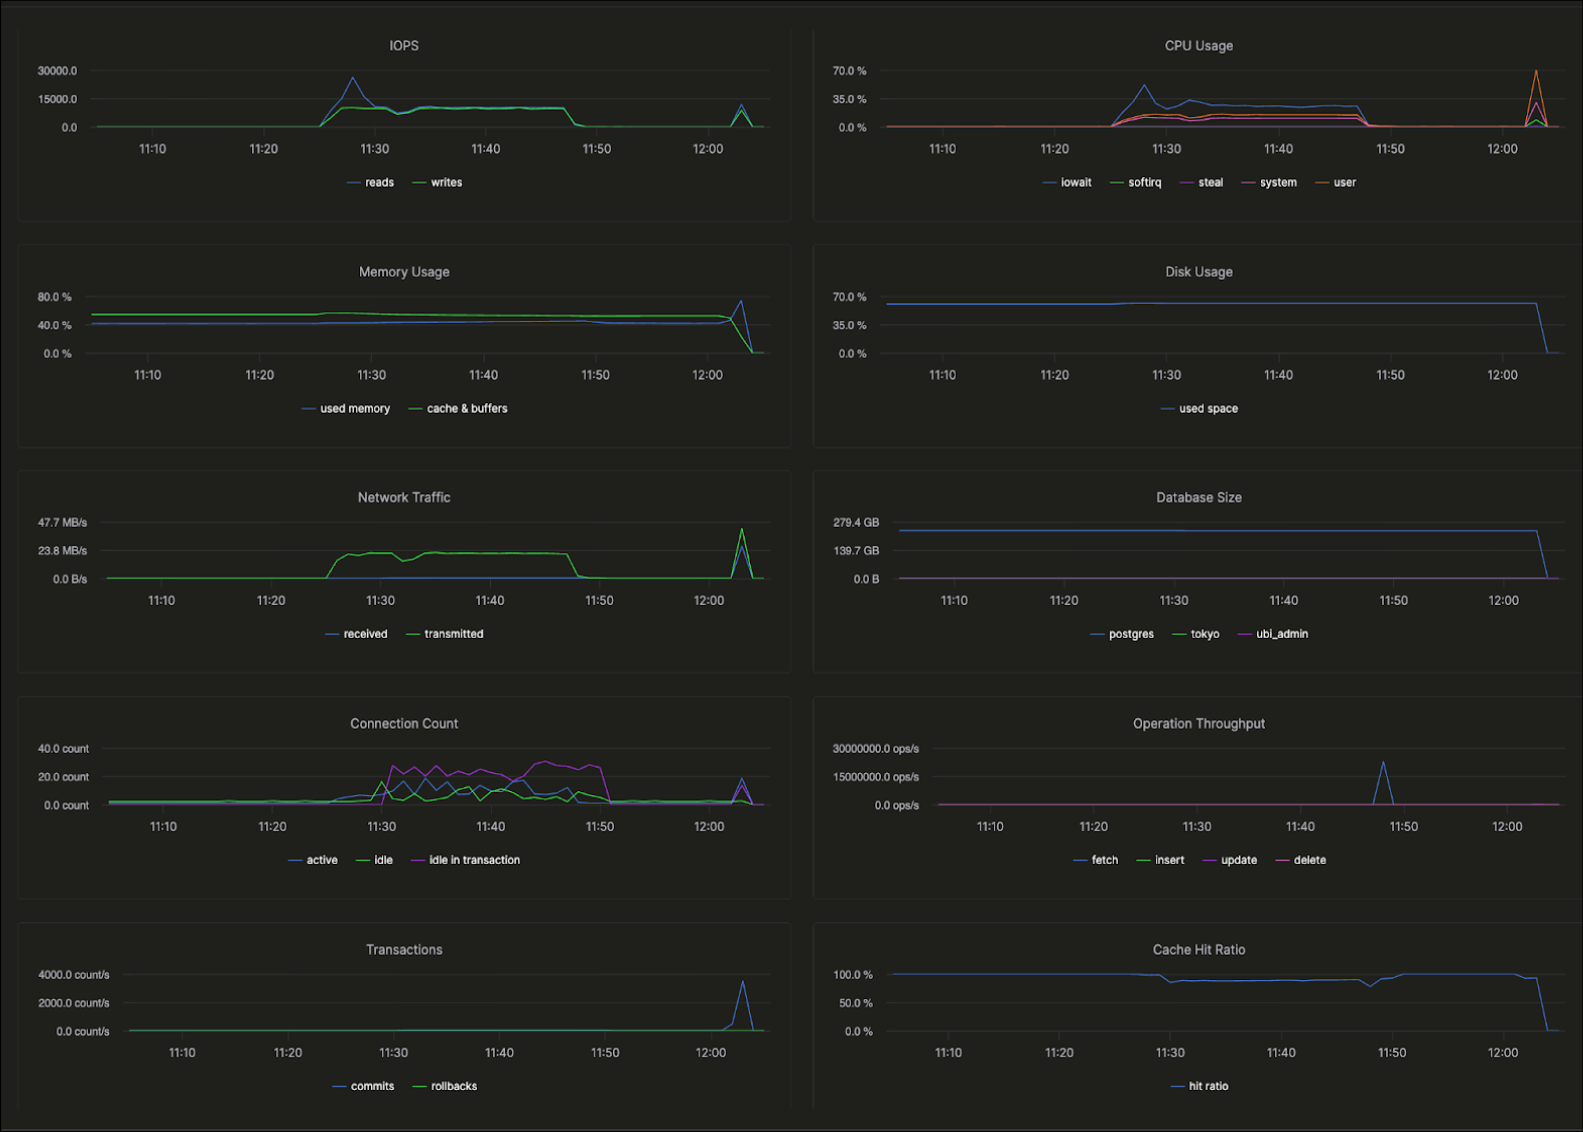
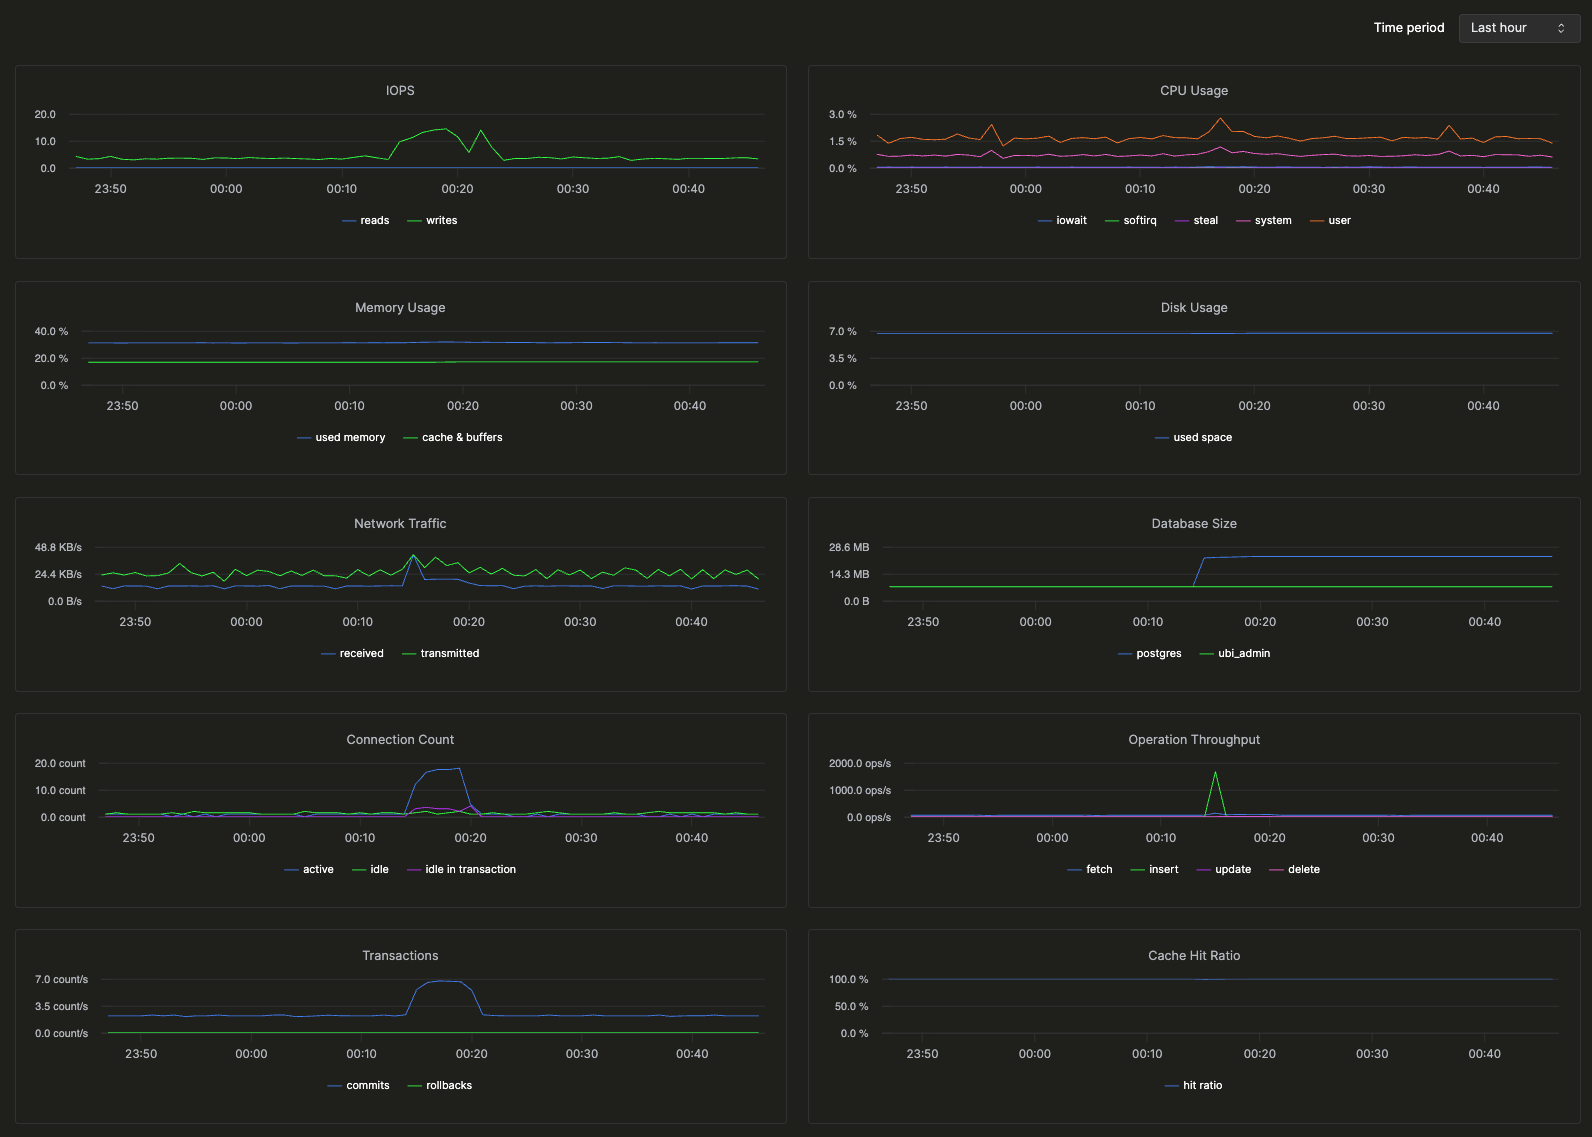
Update Prometheus endpoint title to 'Prometheus Integration' and modify dashboard image

diff --git a/docs/cloud/managed-postgres/monitoring/prometheus.md b/docs/cloud/managed-postgres/monitoring/prometheus.md
@@ -9,7 +9,7 @@ doc_type: 'guide'
 
 import PrivatePreviewBadge from '@theme/badges/PrivatePreviewBadge';
 
-# Prometheus endpoint
+# Prometheus Integration
 
 <PrivatePreviewBadge link="https://clickhouse.com/cloud/postgres" galaxyTrack={true} slug="monitoring-prometheus" />
 